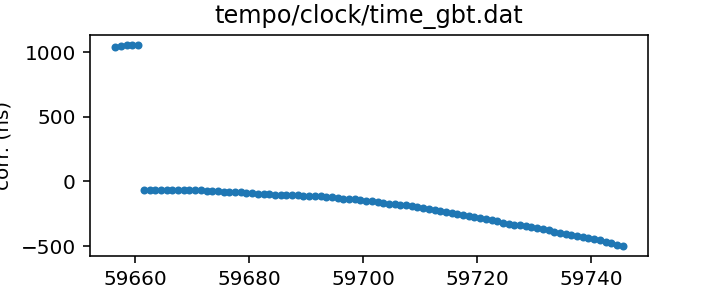
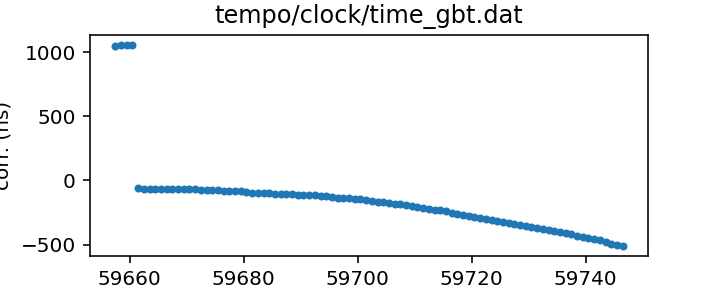
Routine gh-pages update from Github action Fri Jun 17 20:36:52 UTC 2022

diff --git a/status.md b/status.md
@@ -13,13 +13,13 @@ name of each clock file links to a page with more details.
 
 | Name | File | Corrections start | Corrections end | Last check date | Last check result 
 |:--- |:--- | --- | --- | --- |:--- 
-| [GPS to UTC](T2runtime/clock/gps2utc.clk.html) | `T2runtime/clock/gps2utc.clk` | 1993-01-01 MJD 48988.0 | 2022-05-30 MJD 59729.0 | 2022-06-16 | Unchanged 
-| [GPS to UTC (Combined Clock)](T2runtime/clock/gps2utc_cc.clk.html) | `T2runtime/clock/gps2utc_cc.clk` | 1993-01-01 MJD 48988.0 | 2022-05-30 MJD 59729.0 | 2022-06-16 | Unchanged 
-| [GPS to UTC (Corrected)](T2runtime/clock/gps2utc_c0p.clk.html) | `T2runtime/clock/gps2utc_c0p.clk` | 2010-12-29 MJD 55559.0 | 2022-05-30 MJD 59729.0 | 2022-06-16 | Unchanged 
-| [GBT](tempo/clock/time_gbt.dat.html) | `tempo/clock/time_gbt.dat` | 2000-12-31 MJD 51909.5 | 2022-06-15 MJD 59745.5 | 2022-06-16 | Updated 
-| [GBT (TEMPO2 converted from TEMPO)](T2runtime/clock/gbt2gps.clk.html) | `T2runtime/clock/gbt2gps.clk` | 2000-12-31 MJD 51909.5 | 2022-06-15 MJD 59745.5 | 2022-06-16 | Updated 
-| [Leap seconds](tempo/clock/leap.sec.html) | `tempo/clock/leap.sec` | 1972-07-01 MJD 41499.0 | 2017-01-01 MJD 57754.0 | 2022-06-16 | Unchanged 
-| [UT1 table](tempo/clock/ut1.dat.html) | `tempo/clock/ut1.dat` | 1973-01-02 MJD 41684.0 | 2023-06-24 MJD 60119.0 | 2022-06-16 | Unchanged 
+| [GPS to UTC](T2runtime/clock/gps2utc.clk.html) | `T2runtime/clock/gps2utc.clk` | 1993-01-01 MJD 48988.0 | 2022-05-30 MJD 59729.0 | 2022-06-17 | Unchanged 
+| [GPS to UTC (Combined Clock)](T2runtime/clock/gps2utc_cc.clk.html) | `T2runtime/clock/gps2utc_cc.clk` | 1993-01-01 MJD 48988.0 | 2022-05-30 MJD 59729.0 | 2022-06-17 | Unchanged 
+| [GPS to UTC (Corrected)](T2runtime/clock/gps2utc_c0p.clk.html) | `T2runtime/clock/gps2utc_c0p.clk` | 2010-12-29 MJD 55559.0 | 2022-05-30 MJD 59729.0 | 2022-06-17 | Unchanged 
+| [GBT](tempo/clock/time_gbt.dat.html) | `tempo/clock/time_gbt.dat` | 2000-12-31 MJD 51909.5 | 2022-06-16 MJD 59746.5 | 2022-06-17 | Updated 
+| [GBT (TEMPO2 converted from TEMPO)](T2runtime/clock/gbt2gps.clk.html) | `T2runtime/clock/gbt2gps.clk` | 2000-12-31 MJD 51909.5 | 2022-06-16 MJD 59746.5 | 2022-06-17 | Updated 
+| [Leap seconds](tempo/clock/leap.sec.html) | `tempo/clock/leap.sec` | 1972-07-01 MJD 41499.0 | 2017-01-01 MJD 57754.0 | 2022-06-17 | Unchanged 
+| [UT1 table](tempo/clock/ut1.dat.html) | `tempo/clock/ut1.dat` | 1973-01-02 MJD 41684.0 | 2023-06-24 MJD 60119.0 | 2022-06-17 | Unchanged 
 
 
 

diff --git a/T2runtime/clock/gbt2gps.clk.md b/T2runtime/clock/gbt2gps.clk.md
@@ -23,14 +23,13 @@ If questions arise about the conversion, contact Anne Archibald
 | Format | tempo2 |
 | Bogus last correction | False |
 | Clock file start | 2000-12-31 MJD 51909.5 |
-| Clock file end | 2022-06-15 MJD 59745.5 |
+| Clock file end | 2022-06-16 MJD 59746.5 |
 | Update interval (days) | 1 |
-| Last update attempt | 2022-06-16 |
+| Last update attempt | 2022-06-17 |
 | Last update result | Updated |
 
 Log entries from the last few update attempts:
 ```
-2022-06-07 16:28:36.231 - No way to download: 'T2runtime/clock/gbt2gps.clk'
 2022-06-07 16:28:36.314 - Updated
 2022-06-08 17:10:52.667 - No way to download: 'T2runtime/clock/gbt2gps.clk'
 2022-06-08 17:10:52.727 - Updated
@@ -40,12 +39,13 @@ Log entries from the last few update attempts:
 2022-06-15 16:45:25.024 - Updated
 2022-06-16 18:26:16.943 - No way to download: 'T2runtime/clock/gbt2gps.clk'
 2022-06-16 18:26:16.999 - Updated
+2022-06-17 20:36:23.990 - Updated
 ```
 [Full log](https://raw.githubusercontent.com/ipta/pulsar-clock-corrections/main/log/T2runtime/clock/gbt2gps.clk.log)
 
 Leading comments from clock file:
 
-    # This file was automatically converted from tempo/clock/time_gbt.dat on 2022-06-16 18:26:16.944
+    # This file was automatically converted from tempo/clock/time_gbt.dat on 2022-06-17 20:36:23.903
 
 
 

diff --git a/tempo/clock/leap.sec.md b/tempo/clock/leap.sec.md
@@ -21,12 +21,11 @@ If there are any questions, contact Anne Archibald
 | File start | 1972-07-01 MJD 41499.0 |
 | File end | 2017-01-01 MJD 57754.0 |
 | Update interval (days) | 0 |
-| Last update attempt | 2022-06-16 |
+| Last update attempt | 2022-06-17 |
 | Last update result | Unchanged |
 
 Log entries from the last few update attempts:
 ```
-2022-06-16 19:06:10.668 - Exception: Problem computing new value: Input values did not match the format class mjd:
 2022-06-16 19:10:19.803 - Exception: Problem computing new value Input values did not match the format class mjd: TypeError: Input values for mjd class must be finite doubles
 2022-06-16 19:11:15.424 - Unchanged
 2022-06-16 19:17:28.624 - Unchanged
@@ -36,5 +35,6 @@ Log entries from the last few update attempts:
 2022-06-16 20:40:22.041 - Unchanged
 2022-06-16 21:33:08.142 - Unchanged
 2022-06-16 21:56:51.445 - Unchanged
+2022-06-17 20:36:24.033 - Unchanged
 ```
 [Full log](https://raw.githubusercontent.com/ipta/pulsar-clock-corrections/main/log/tempo/clock/leap.sec.log)

diff --git a/T2runtime/clock/gps2utc_c0p.clk.md b/T2runtime/clock/gps2utc_c0p.clk.md
@@ -30,12 +30,11 @@ about the BIPM's published corrections, contact <tai@bipm.org>.
 | Clock file start | 2010-12-29 MJD 55559.0 |
 | Clock file end | 2022-05-30 MJD 59729.0 |
 | Update interval (days) | 1 |
-| Last update attempt | 2022-06-16 |
+| Last update attempt | 2022-06-17 |
 | Last update result | Unchanged |
 
 Log entries from the last few update attempts:
 ```
-2022-06-08 10:46:41.942 - No way to download: 'T2runtime/clock/gps2utc_c0p.clk'
 2022-06-08 10:46:41.957 - Updated
 2022-06-09 13:27:33.483 - No way to download: 'T2runtime/clock/gps2utc_c0p.clk'
 2022-06-09 13:27:33.504 - Unchanged
@@ -45,6 +44,7 @@ Log entries from the last few update attempts:
 2022-06-15 16:45:22.287 - Updated
 2022-06-16 18:26:15.138 - No way to download: 'T2runtime/clock/gps2utc_c0p.clk'
 2022-06-16 18:26:15.152 - Unchanged
+2022-06-17 20:36:23.031 - Unchanged
 ```
 [Full log](https://raw.githubusercontent.com/ipta/pulsar-clock-corrections/main/log/T2runtime/clock/gps2utc_c0p.clk.log)
 

diff --git a/T2runtime/clock/gps2utc_cc.clk.md b/T2runtime/clock/gps2utc_cc.clk.md
@@ -29,12 +29,11 @@ about the BIPM's published corrections, contact <tai@bipm.org>.
 | Clock file start | 1993-01-01 MJD 48988.0 |
 | Clock file end | 2022-05-30 MJD 59729.0 |
 | Update interval (days) | 1 |
-| Last update attempt | 2022-06-16 |
+| Last update attempt | 2022-06-17 |
 | Last update result | Unchanged |
 
 Log entries from the last few update attempts:
 ```
-2022-06-08 10:46:41.912 - No way to download: 'T2runtime/clock/gps2utc_cc.clk'
 2022-06-08 10:46:41.942 - Updated
 2022-06-09 13:27:33.446 - No way to download: 'T2runtime/clock/gps2utc_cc.clk'
 2022-06-09 13:27:33.481 - Unchanged
@@ -44,6 +43,7 @@ Log entries from the last few update attempts:
 2022-06-15 16:45:22.258 - Updated
 2022-06-16 18:26:15.106 - No way to download: 'T2runtime/clock/gps2utc_cc.clk'
 2022-06-16 18:26:15.137 - Unchanged
+2022-06-17 20:36:23.008 - Unchanged
 ```
 [Full log](https://raw.githubusercontent.com/ipta/pulsar-clock-corrections/main/log/T2runtime/clock/gps2utc_cc.clk.log)
 

diff --git a/T2runtime/clock/gps2utc.clk.md b/T2runtime/clock/gps2utc.clk.md
@@ -32,12 +32,11 @@ about the BIPM's published corrections, contact <tai@bipm.org>.
 | Clock file start | 1993-01-01 MJD 48988.0 |
 | Clock file end | 2022-05-30 MJD 59729.0 |
 | Update interval (days) | 1 |
-| Last update attempt | 2022-06-16 |
+| Last update attempt | 2022-06-17 |
 | Last update result | Unchanged |
 
 Log entries from the last few update attempts:
 ```
-2022-06-08 10:42:42.759 - No way to download: 'T2runtime/clock/gps2utc.clk'
 2022-06-08 10:42:42.787 - Updated
 2022-06-09 13:27:33.364 - No way to download: 'T2runtime/clock/gps2utc.clk'
 2022-06-09 13:27:33.445 - Unchanged
@@ -47,6 +46,7 @@ Log entries from the last few update attempts:
 2022-06-15 16:45:22.185 - Updated
 2022-06-16 18:26:15.027 - No way to download: 'T2runtime/clock/gps2utc.clk'
 2022-06-16 18:26:15.105 - Unchanged
+2022-06-17 20:36:22.949 - Unchanged
 ```
 [Full log](https://raw.githubusercontent.com/ipta/pulsar-clock-corrections/main/log/T2runtime/clock/gps2utc.clk.log)
 

diff --git a/tempo/clock/time_gbt.dat.md b/tempo/clock/time_gbt.dat.md
@@ -18,14 +18,13 @@ If questions arise, contact Ryan S. Lynch <rlynch@nrao.edu>.
 | Format | tempo |
 | Bogus last correction | False |
 | Clock file start | 2000-12-31 MJD 51909.5 |
-| Clock file end | 2022-06-15 MJD 59745.5 |
+| Clock file end | 2022-06-16 MJD 59746.5 |
 | Update interval (days) | 1 |
-| Last update attempt | 2022-06-16 |
+| Last update attempt | 2022-06-17 |
 | Last update result | Updated |
 
 Log entries from the last few update attempts:
 ```
-2022-05-26 08:30:03.621 - Unchanged
 2022-05-26 08:35:00.696 - Unchanged
 2022-05-31 11:30:47.824 - Updated
 2022-06-01 11:50:23.149 - Unchanged
@@ -35,6 +34,7 @@ Log entries from the last few update attempts:
 2022-06-13 13:42:09.608 - Updated
 2022-06-15 16:45:23.965 - Updated
 2022-06-16 18:26:16.941 - Updated
+2022-06-17 20:36:23.900 - Updated
 ```
 [Full log](https://raw.githubusercontent.com/ipta/pulsar-clock-corrections/main/log/tempo/clock/time_gbt.dat.log)
 

diff --git a/tempo/clock/ut1.dat.md b/tempo/clock/ut1.dat.md
@@ -30,7 +30,7 @@ If there are any questions, contact Anne Archibald
 | File start | 1973-01-02 MJD 41684.0 |
 | File end | 2023-06-24 MJD 60119.0 |
 | Update interval (days) | 0 |
-| Last update attempt | 2022-06-16 |
+| Last update attempt | 2022-06-17 |
 | Last update result | Unchanged |
 
 Log entries from the last few update attempts:
@@ -44,5 +44,6 @@ Log entries from the last few update attempts:
 2022-06-16 20:40:29.455 - Unchanged
 2022-06-16 21:33:21.083 - Unchanged
 2022-06-16 21:56:59.523 - Unchanged
+2022-06-17 20:36:36.293 - Unchanged
 ```
 [Full log](https://raw.githubusercontent.com/ipta/pulsar-clock-corrections/main/log/tempo/clock/ut1.dat.log)
